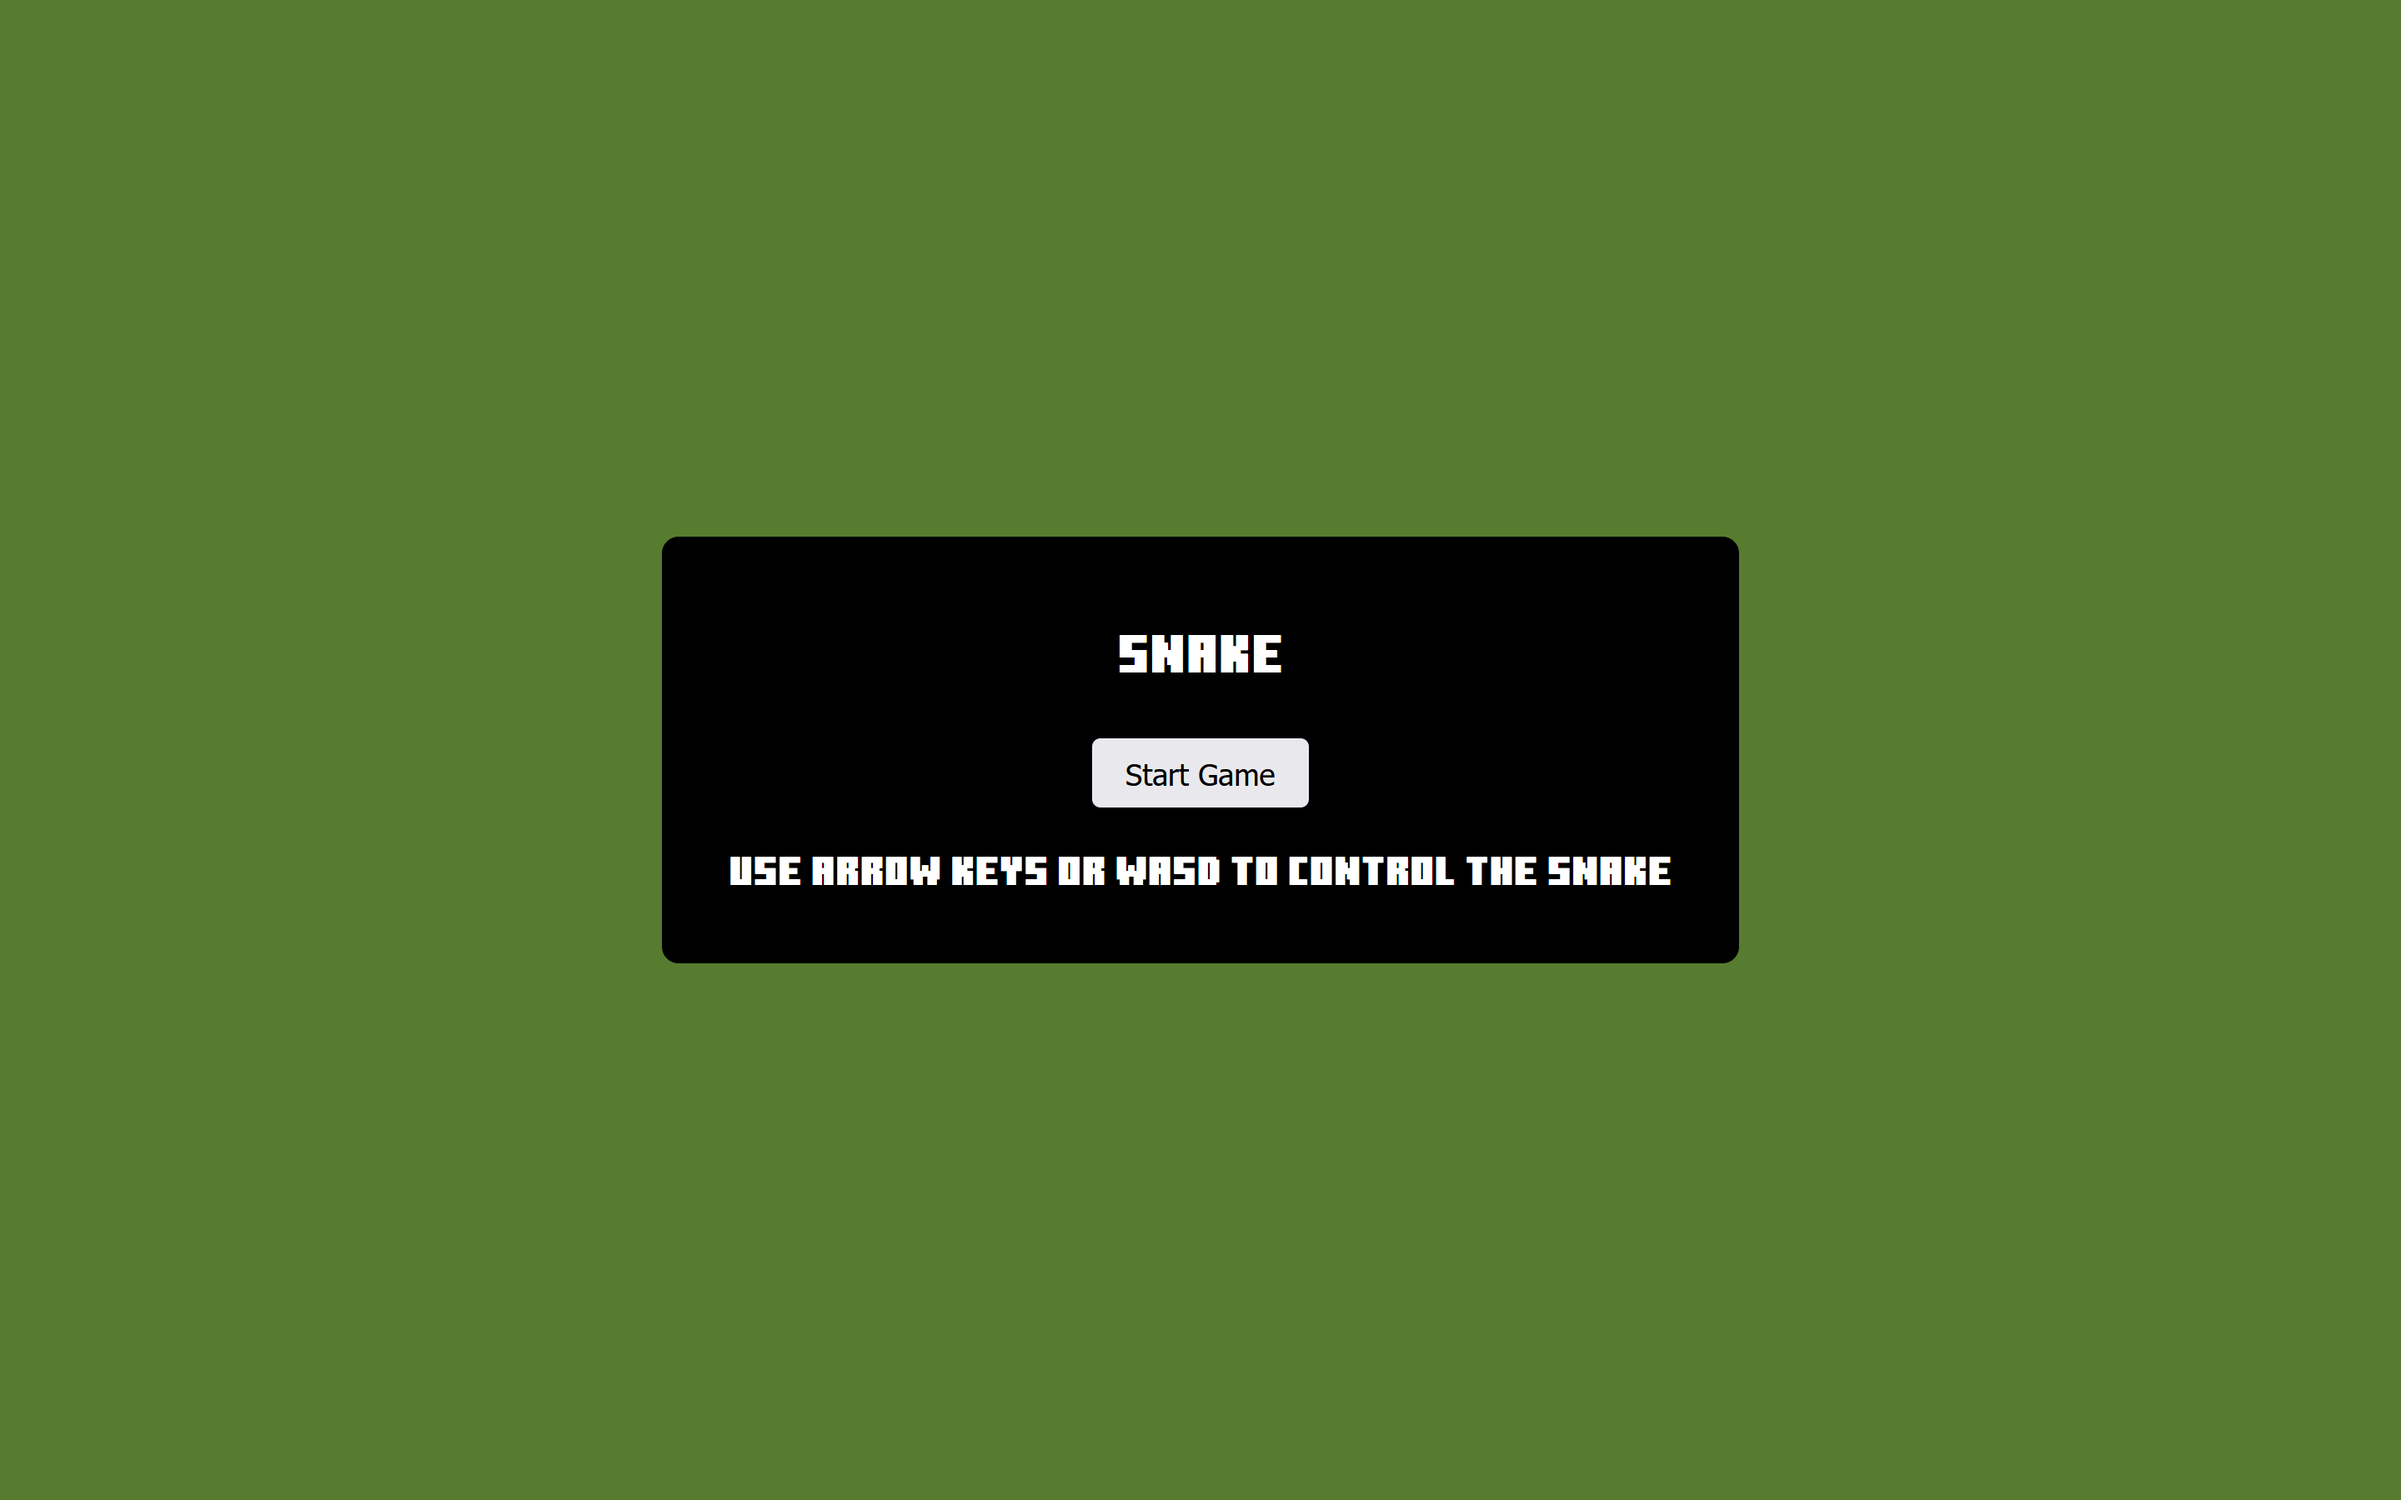
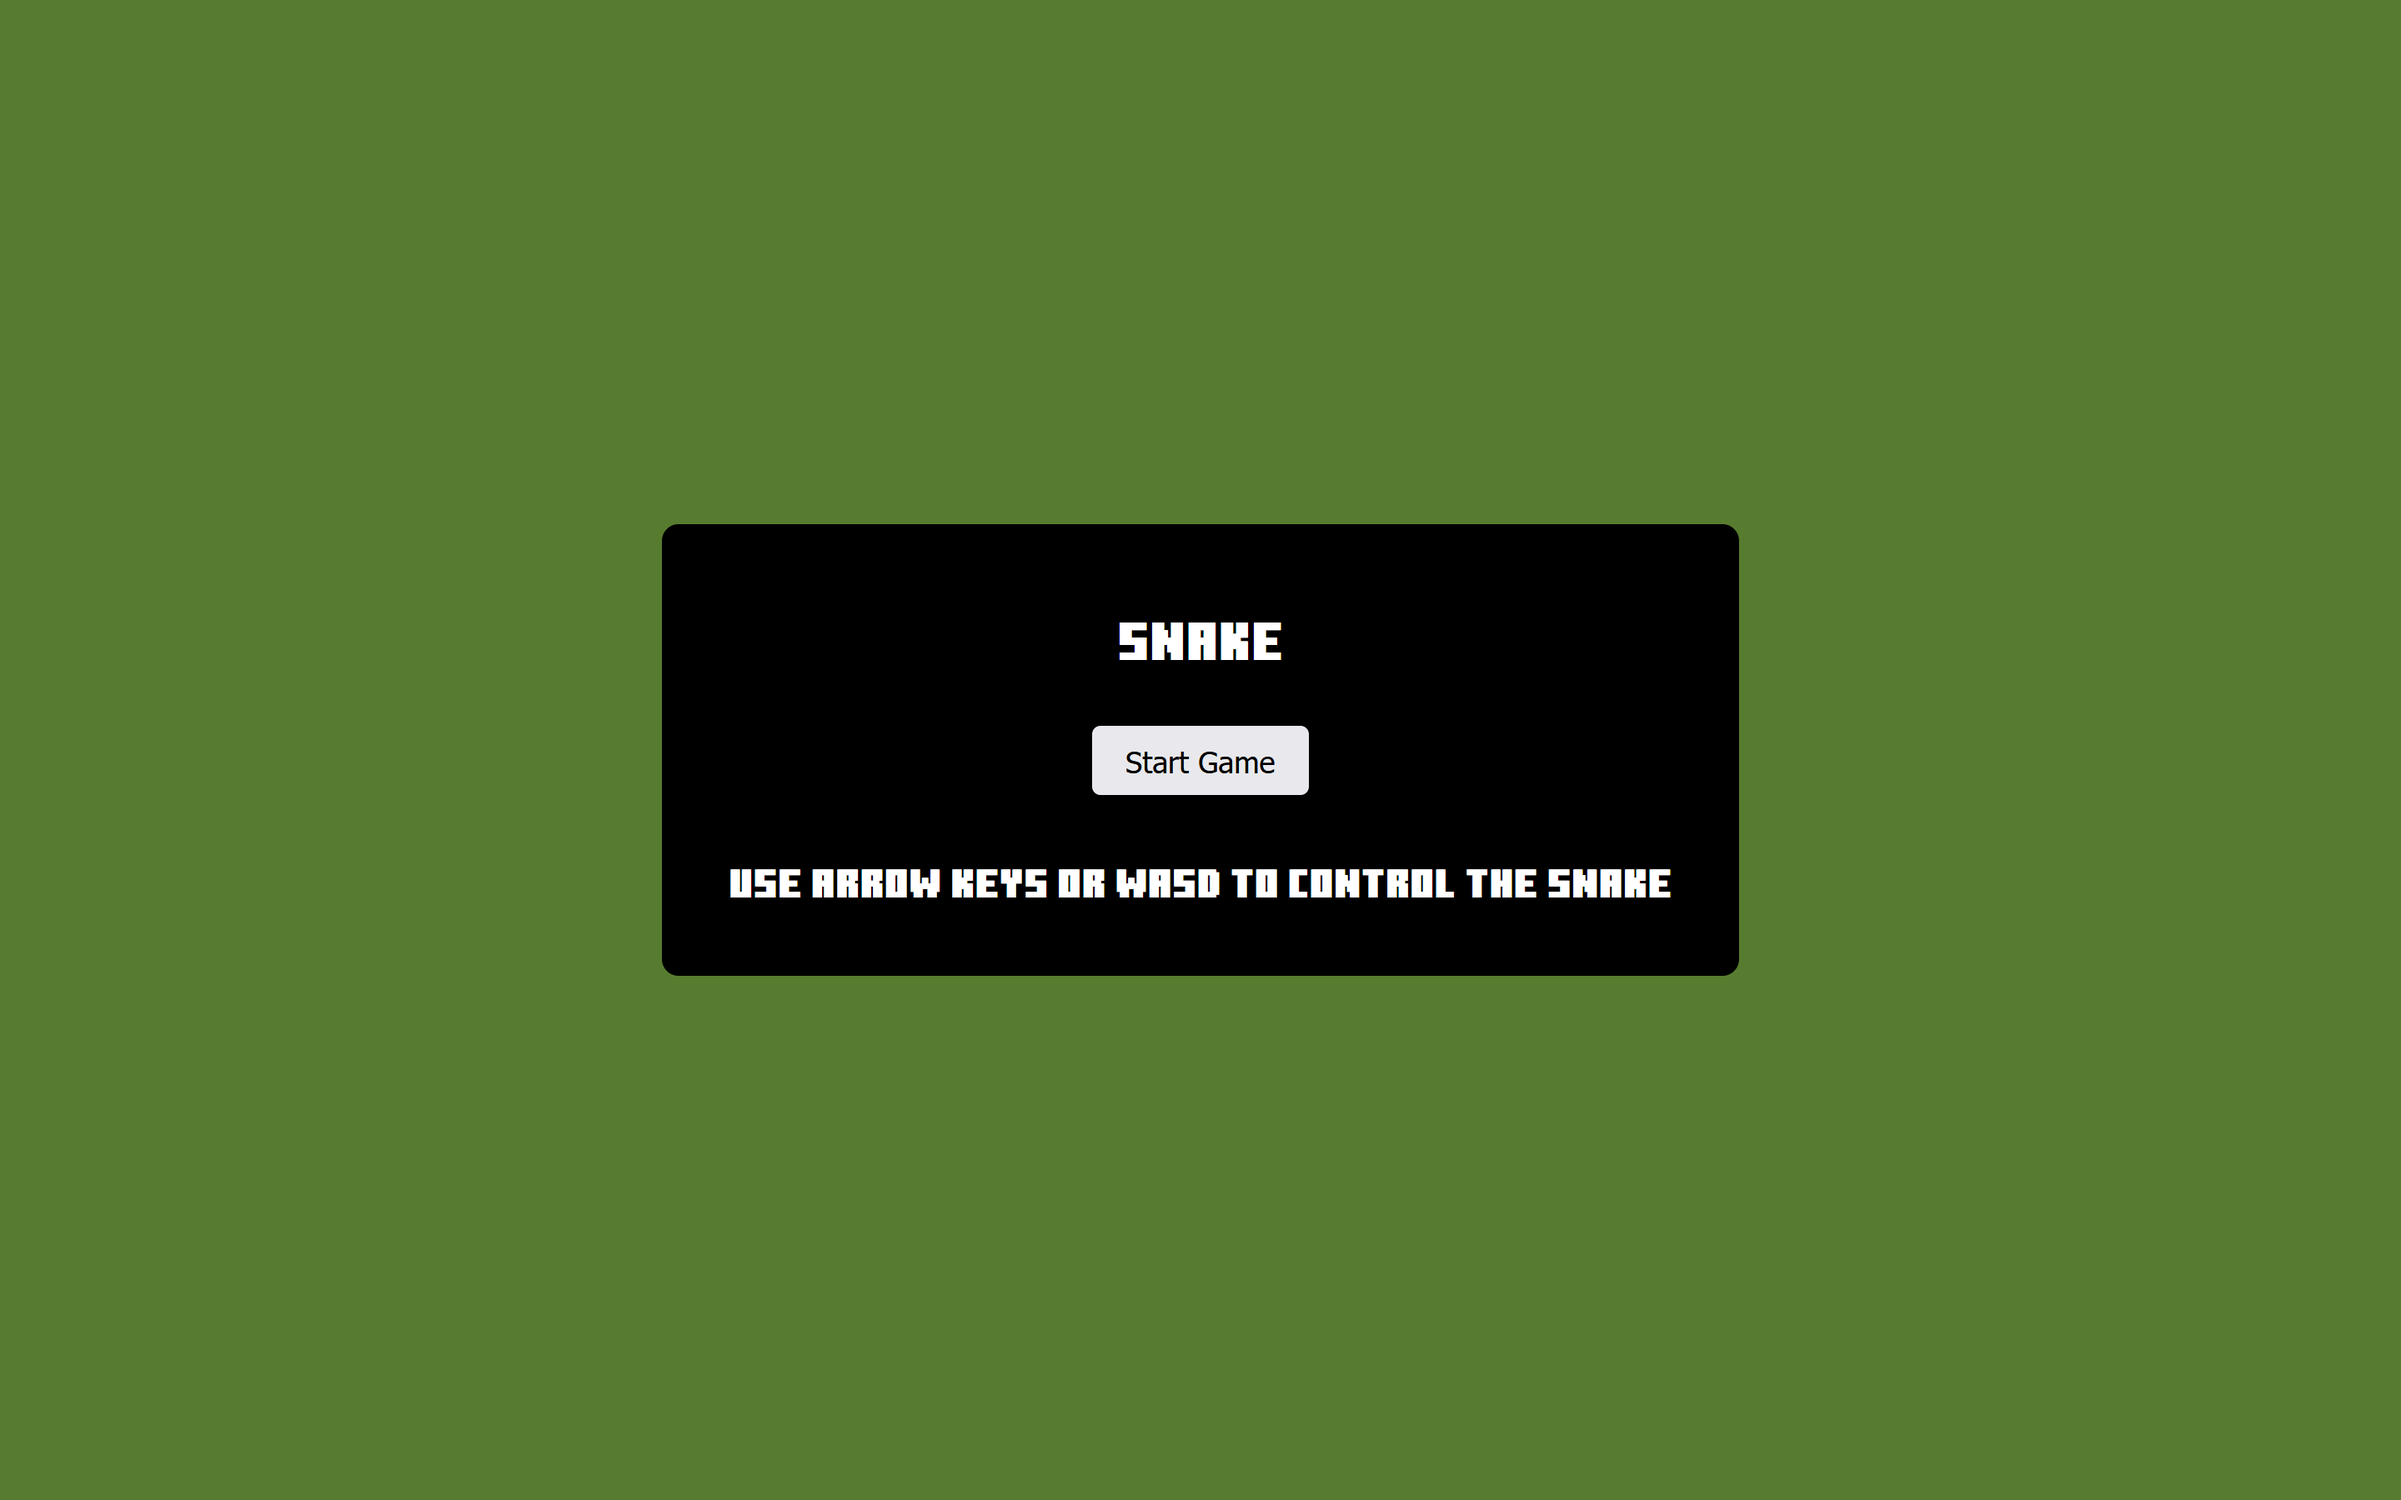
styling + images

Changed region(s): [[0.2812, 0.4044, 0.7188, 0.6533], [0.2812, 0.3422, 0.7188, 0.3733]]

diff --git a/styles.css b/styles.css
@@ -32,6 +32,10 @@ body {
 
 #startCard {
   position: absolute;
+  display: flex;
+  flex-direction: column;
+  align-items: center;
+  justify-content: center;
   top: 50%;
   left: 50%;
   transform: translate(-50%, -50%);
@@ -44,6 +48,7 @@ body {
 
 #startButton {
   margin-top: 15px;
+  margin-bottom: 15px;
   padding: 10px 20px;
   font-size: 18px;
   cursor: pointer;
